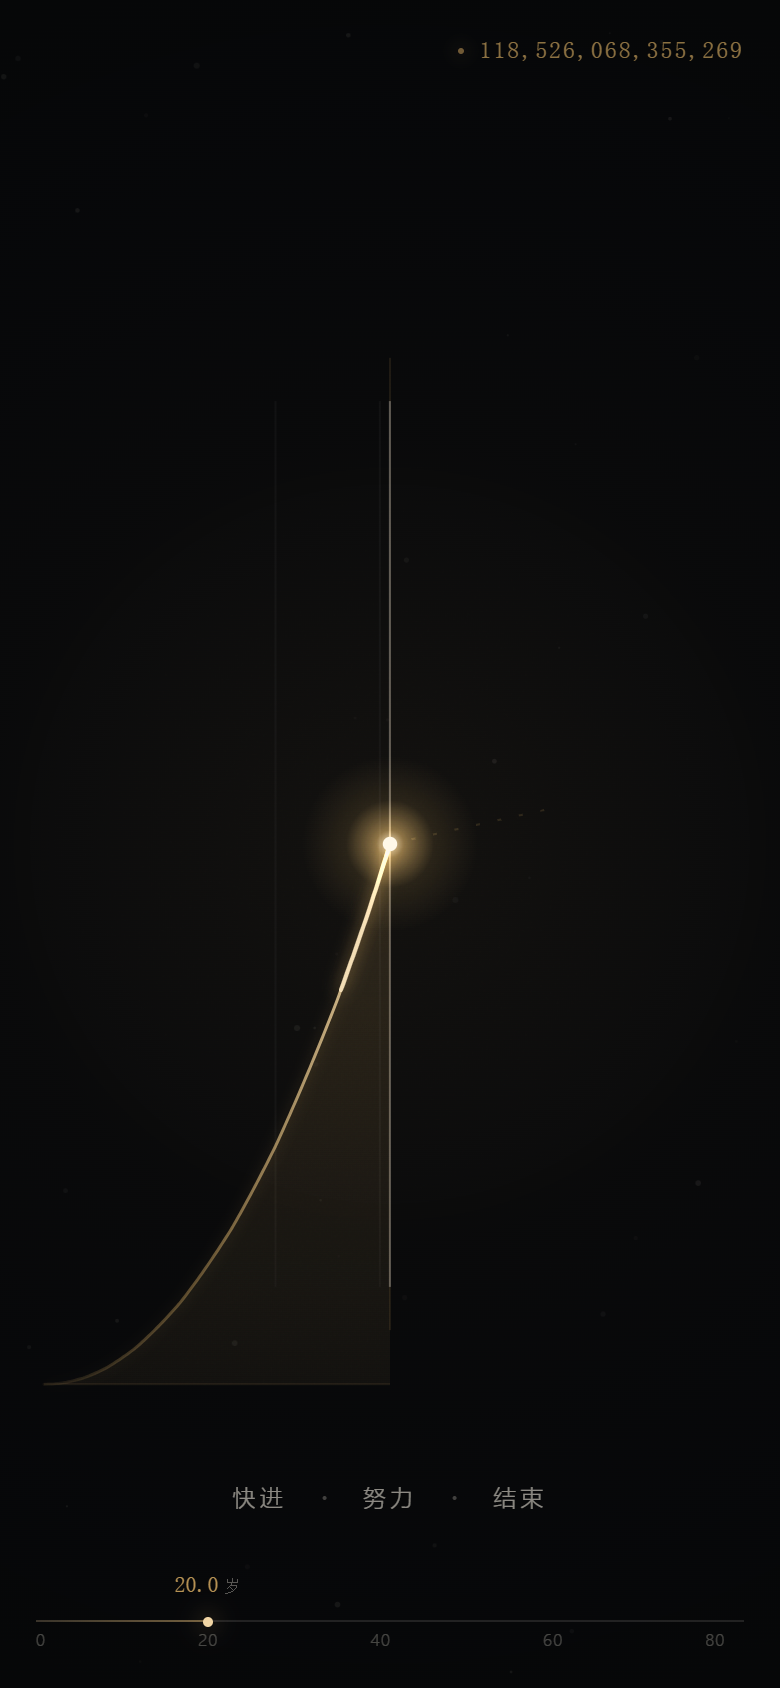
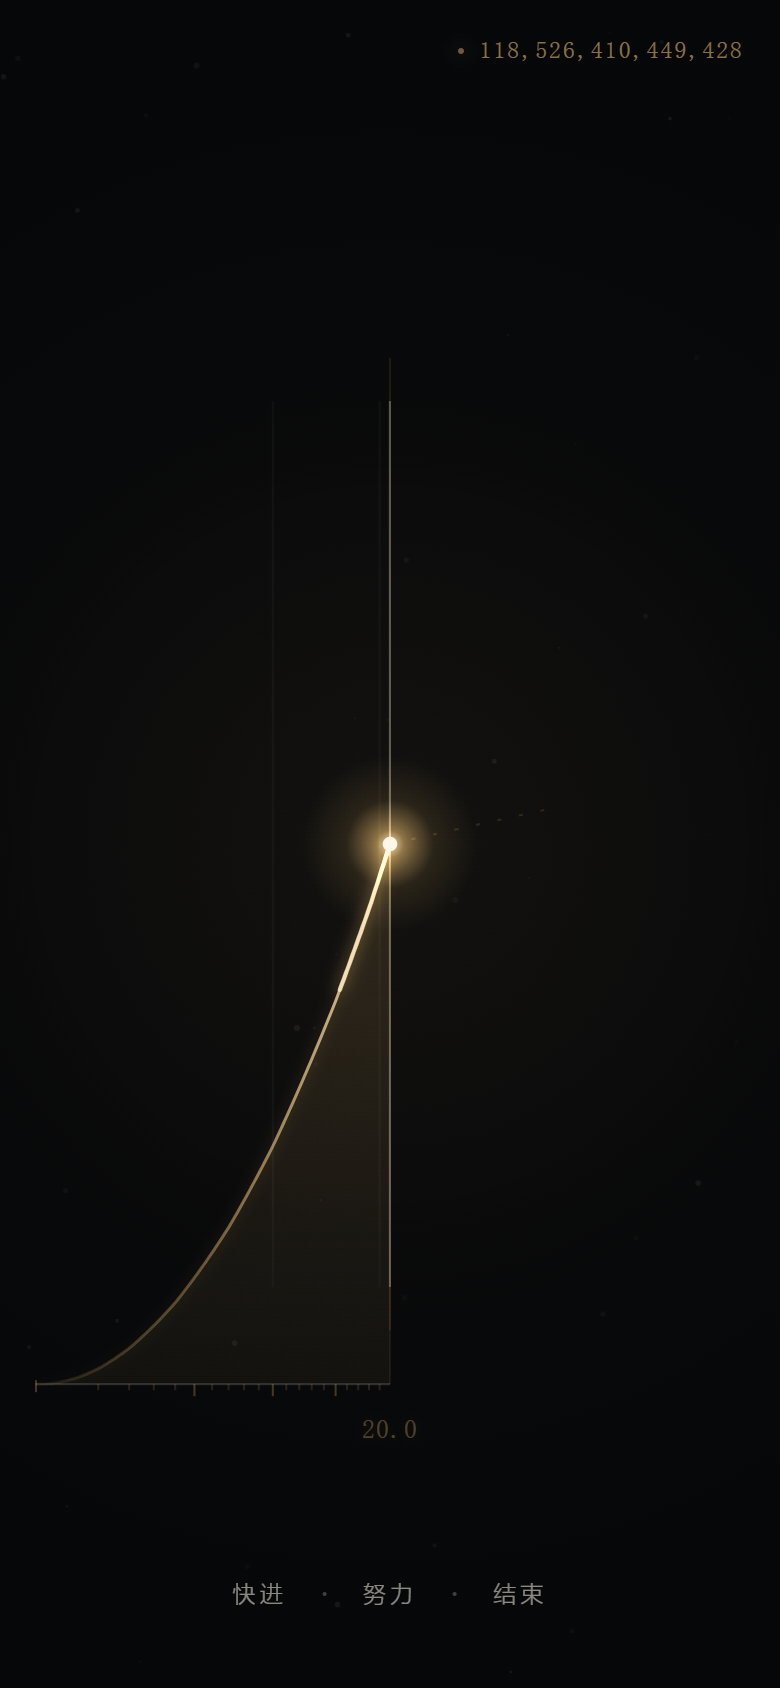
feat(v2.3.0): 年龄轴移到面积底边并随年龄压缩

diff --git a/assets/js/render.js b/assets/js/render.js
@@ -1,11 +1,12 @@
 import {
   SLOPE_CAP,
   heightAt,
-} from './life.js?v=2.2.0';
+} from './life.js?v=2.3.0';
 
 const AMBER = '227, 181, 102';
 const PAPER = '238, 232, 220';
 const RED = '200, 85, 61';
+const YEAR_SECONDS = 365.25 * 86400;
 
 function rgba(rgb, alpha) {
   return `rgba(${rgb}, ${alpha})`;
@@ -64,7 +65,7 @@ export class LifeRenderer {
   geometry() {
     const centerX = this.w * 0.5;
     const centerY = this.h * 0.5;
-    const left = this.w < 620 ? 22 : Math.max(this.w * 0.07, 46);
+    const left = this.w < 620 ? 18 : 24;
     const halfW = centerX - left;
     const halfH = Math.min(this.h * 0.32, 280);
     return { left, centerX, centerY, halfW, halfH };
@@ -133,6 +134,67 @@ export class LifeRenderer {
     ctx.restore();
   }
 
+  drawAgeAxis(g, age, baseY) {
+    const { ctx } = this;
+    const years = age / YEAR_SECONDS;
+    ctx.save();
+    ctx.lineCap = 'butt';
+
+    // 光点到轴的连接线：轴在“现在”的正下方
+    if (baseY > g.centerY + 2) {
+      ctx.strokeStyle = rgba(AMBER, 0.08);
+      ctx.beginPath();
+      ctx.moveTo(g.centerX, g.centerY);
+      ctx.lineTo(g.centerX, baseY);
+      ctx.stroke();
+    }
+
+    ctx.strokeStyle = rgba(PAPER, 0.17);
+    ctx.lineWidth = 1;
+    ctx.beginPath();
+    ctx.moveTo(g.left, baseY);
+    ctx.lineTo(g.centerX, baseY);
+    ctx.stroke();
+
+    // 起点固定在页面最左边；0 不写出来
+    ctx.strokeStyle = rgba(AMBER, 0.28);
+    ctx.beginPath();
+    ctx.moveTo(g.left, baseY - 2);
+    ctx.lineTo(g.left, baseY + 4);
+    ctx.stroke();
+
+    // 每一年一道刻痕。活得越久，刻痕越多、越挤。
+    const lastYear = Math.floor(years);
+    for (let year = 1; year <= lastYear; year += 1) {
+      const x = this.ageToX(year * YEAR_SECONDS, age, g.left, g.centerX);
+      if (x < g.left + 2 || x > g.centerX - 2) continue;
+      const tall = year % 5 === 0;
+      ctx.strokeStyle = rgba(AMBER, tall ? 0.28 : 0.14);
+      ctx.beginPath();
+      ctx.moveTo(x, baseY);
+      ctx.lineTo(x, baseY + (tall ? 6 : 3));
+      ctx.stroke();
+    }
+    ctx.restore();
+  }
+
+  drawAgeNumber(g, age, baseY, now) {
+    const { ctx } = this;
+    const years = Math.max(0, age / YEAR_SECONDS);
+    const death = this.deathAt ? Math.min(1, (now - this.deathAt) / 1700) : 0;
+    const alpha = (0.5 + 0.18 * Math.sin(now * 0.0032)) * (1 - death);
+    const bob = this.reduced ? 0 : Math.sin(now * 0.0032 + 1.2) * 1.2;
+    ctx.save();
+    ctx.font = '13px "Songti SC", "STSong", "Noto Serif CJK SC", "SimSun", serif';
+    ctx.textAlign = 'center';
+    ctx.textBaseline = 'top';
+    ctx.fillStyle = rgba(AMBER, Math.max(0, alpha));
+    ctx.shadowColor = rgba(AMBER, 0.25 * (1 - death));
+    ctx.shadowBlur = 10;
+    ctx.fillText(years.toFixed(1), g.centerX, baseY + 16 + bob);
+    ctx.restore();
+  }
+
   drawCurve(life, events, now) {
     const { ctx } = this;
     const g = this.geometry();
@@ -144,19 +206,10 @@ export class LifeRenderer {
     this.drawTicks(g, age);
 
     if (age <= 0 || H <= 0) {
-      // 一条平线也是轨迹
-      if (age > 0) {
-        ctx.save();
-        ctx.strokeStyle = rgba(PAPER, 0.1);
-        ctx.lineWidth = 1;
-        ctx.beginPath();
-        ctx.moveTo(g.left, g.centerY);
-        ctx.lineTo(g.centerX, g.centerY);
-        ctx.stroke();
-        ctx.restore();
-      }
+      this.drawAgeAxis(g, age, baseY);
       this.drawSparks(now);
       this.drawDot(g, life, now, 1);
+      this.drawAgeNumber(g, age, baseY, now);
       return;
     }
 
@@ -191,13 +244,7 @@ export class LifeRenderer {
     ctx.fillStyle = rgba(AMBER, 0.028);
     ctx.fill();
 
-    // 面积的底边：很淡，但让它真的“被围起来”
-    ctx.strokeStyle = rgba(AMBER, 0.09);
-    ctx.lineWidth = 1;
-    ctx.beginPath();
-    ctx.moveTo(points[0].x, baseY);
-    ctx.lineTo(points[points.length - 1].x, baseY);
-    ctx.stroke();
+    this.drawAgeAxis(g, age, baseY);
 
     const stroke = ctx.createLinearGradient(g.left, 0, g.centerX, 0);
     stroke.addColorStop(0, rgba(AMBER, 0.06));
@@ -244,6 +291,7 @@ export class LifeRenderer {
 
     this.drawSparks(now);
     this.drawDot(g, life, now, 1);
+    this.drawAgeNumber(g, age, baseY, now);
   }
 
   drawDot(g, life, now, alpha = 1) {

diff --git a/assets/css/style.css b/assets/css/style.css
@@ -124,84 +124,6 @@ body.is-dead .area { animation: none; opacity: 0; }
   100% { opacity: 0.7; }
 }
 
-/* ---------- age axis ---------- */
-
-.age-axis {
-  position: fixed;
-  left: 7vw;
-  right: 7vw;
-  bottom: 24px;
-  z-index: 6;
-  height: 34px;
-  pointer-events: none;
-  opacity: 0;
-  transition: opacity 0.9s var(--ease);
-}
-
-body:not(.is-booting) .age-axis { opacity: 1; }
-body.is-dead .age-axis,
-body.has-panel .age-axis { opacity: 0; }
-
-.age-line {
-  position: absolute;
-  left: 0;
-  right: 0;
-  top: 16px;
-  height: 1px;
-  background: rgba(238, 232, 220, 0.12);
-}
-
-#ageFill {
-  position: absolute;
-  left: 0;
-  top: 0;
-  bottom: 0;
-  width: 0;
-  background: linear-gradient(90deg, rgba(227, 181, 102, 0.12), rgba(227, 181, 102, 0.42));
-}
-
-#ageMarker {
-  position: absolute;
-  left: 0;
-  top: 50%;
-  width: 5px;
-  height: 5px;
-  border-radius: 50%;
-  background: var(--amber-soft);
-  transform: translate(-50%, -50%);
-  box-shadow: 0 0 12px rgba(227, 181, 102, 0.7);
-}
-
-.age-ticks span {
-  position: absolute;
-  top: 21px;
-  transform: translateX(-50%);
-  font-size: 8px;
-  letter-spacing: 0.08em;
-  color: rgba(238, 232, 220, 0.28);
-  font-variant-numeric: tabular-nums;
-}
-
-.age-ticks span:first-child { transform: translateX(0); }
-.age-ticks span:last-child { transform: translateX(-100%); }
-
-.age-readout {
-  position: absolute;
-  top: -8px;
-  left: 0;
-  display: flex;
-  align-items: baseline;
-  gap: 3px;
-  transform: translateX(-50%);
-  color: rgba(227, 181, 102, 0.8);
-  font-family: var(--serif);
-  font-size: 11px;
-  font-variant-numeric: tabular-nums;
-  white-space: nowrap;
-}
-
-.age-readout small { font-size: 8px; letter-spacing: 0.1em; color: rgba(238, 232, 220, 0.35); }
-
 /* ---------- account orb ---------- */
 
 .account-orb {
@@ -259,7 +181,7 @@ body.has-panel .age-axis { opacity: 0; }
 .actions {
   position: fixed;
   left: 50%;
-  bottom: max(76px, calc(66px + env(safe-area-inset-bottom)));
+  bottom: max(28px, calc(18px + env(safe-area-inset-bottom)));
   z-index: 7;
   transform: translateX(-50%);
   display: flex;
@@ -523,16 +445,14 @@ body.is-booting .actions { opacity: 0; pointer-events: none; }
 
 @media (pointer: coarse) {
   .effort-pad { display: grid; grid-template-columns: repeat(4, 1fr); gap: 8px; }
-  .age-axis { left: 18px; right: 18px; bottom: 16px; }
-  .actions { bottom: max(72px, calc(62px + env(safe-area-inset-bottom))); }
+  .actions { bottom: max(24px, calc(16px + env(safe-area-inset-bottom))); }
   .actions button { font-size: 13px; letter-spacing: 0.2em; }
 }
 
 @media (max-width: 640px) {
   .area { top: 18px; right: 18px; font-size: 12px; }
   .account-orb { top: 16px; left: 16px; width: 25px; height: 25px; }
-  .age-axis { left: 18px; right: 18px; bottom: 16px; }
-  .actions { bottom: max(72px, calc(62px + env(safe-area-inset-bottom))); gap: 16px; }
+  .actions { gap: 16px; }
   .actions button { font-size: 11.5px; letter-spacing: 0.18em; }
   .fast-number { margin-bottom: 30px; }
   .fast-number span { font-size: 58px; }
@@ -549,8 +469,6 @@ body.is-booting .actions { opacity: 0; pointer-events: none; }
   .effort-keys { min-height: 56px; }
   .effort-key { height: 46px; }
   .effort-pad { display: none; }
-  .age-axis { bottom: 10px; }
-  .actions { bottom: max(58px, calc(50px + env(safe-area-inset-bottom))); }
 }
 
 @media (prefers-reduced-motion: reduce) {

diff --git a/assets/js/main.js b/assets/js/main.js
@@ -11,17 +11,14 @@ import {
   makeSequence,
   projectFastForward,
   settle,
-} from './life.js?v=2.2.0';
-import { LifeRenderer } from './render.js?v=2.2.0';
-import { Sound } from './audio.js?v=2.2.0';
-import { ApiClient, ApiError, makeNonce, randomSeed } from './api.js?v=2.2.0';
-import { CONFIG } from './config.js?v=2.2.0';
+} from './life.js?v=2.3.0';
+import { LifeRenderer } from './render.js?v=2.3.0';
+import { Sound } from './audio.js?v=2.3.0';
+import { ApiClient, ApiError, makeNonce, randomSeed } from './api.js?v=2.3.0';
+import { CONFIG } from './config.js?v=2.3.0';
 
 const $ = (id) => document.getElementById(id);
 const isGithubPages = window.location.hostname.endsWith('.github.io');
-const MAX_AGE_YEARS = LIFETIME_DAYS / 365.25;
-const AGE_SECONDS_PER_YEAR = 365.25 * 86400;
-const AGE_TICKS = [0, 20, 40, 60, 80];
 
 const state = {
   mode: 'local',
@@ -49,7 +46,6 @@ const sound = new Sound();
 let renderer;
 let areaFlashTimer = 0;
 let lastAreaText = '';
-let lastAgeText = '';
 
 const el = {};
 
@@ -58,7 +54,7 @@ function cacheElements() {
     'stage', 'area', 'areaValue', 'accountBtn', 'accountAvatar', 'accountMenu', 'accountName',
     'logoutBtn', 'actions', 'fastPanel', 'fastDay', 'fastRange', 'fastWarning', 'fastCancel', 'fastConfirm',
     'effortPanel', 'effortKeys', 'effortProgress', 'effortPad', 'endPanel', 'endCancel',
-    'endConfirm', 'veil', 'live', 'ageAxis', 'ageFill', 'ageMarker', 'ageTicks', 'ageReadout', 'ageYears',
+    'endConfirm', 'veil', 'live',
   ];
   for (const id of ids) el[id] = $(id);
   el.actionButtons = [...el.actions.querySelectorAll('button[data-action]')];
@@ -110,38 +106,6 @@ function updateArea(life) {
   el.areaValue.textContent = text;
 }
 
-function initAgeAxis() {
-  el.ageAxis.setAttribute('aria-valuemax', MAX_AGE_YEARS.toFixed(1));
-  el.ageTicks.replaceChildren();
-  for (const year of AGE_TICKS) {
-    const tick = document.createElement('span');
-    tick.textContent = String(year);
-    tick.style.left = `${(year / MAX_AGE_YEARS) * 100}%`;
-    el.ageTicks.append(tick);
-  }
-}
-
-function updateAgeAxis(life) {
-  if (!life || !el.ageAxis) return;
-  const years = Math.max(0, life.age / AGE_SECONDS_PER_YEAR);
-  const pct = Math.max(0, Math.min(100, (years / MAX_AGE_YEARS) * 100));
-  el.ageFill.style.width = `${pct}%`;
-  el.ageMarker.style.left = `${pct}%`;
-  el.ageReadout.style.left = `${pct}%`;
-  el.ageReadout.style.transform = pct < 6
-    ? 'translateX(0)'
-    : pct > 94
-      ? 'translateX(-100%)'
-      : 'translateX(-50%)';
-  const text = years.toFixed(1);
-  if (text !== lastAgeText) {
-    lastAgeText = text;
-    el.ageYears.textContent = text;
-    el.ageAxis.setAttribute('aria-valuenow', text);
-    el.ageAxis.setAttribute('aria-valuetext', `${text} 岁`);
-  }
-}
-
 function showActions(show) {
   el.actions.hidden = !show;
 }
@@ -180,10 +144,7 @@ function frame(now) {
     return;
   }
   renderer.draw(life, state.events, now);
-  if (!state.fastOpen) {
-    updateArea(life);
-    updateAgeAxis(life);
-  }
+  if (!state.fastOpen) updateArea(life);
 }
 
 /* ---------------- base state ---------------- */
@@ -933,8 +894,6 @@ async function boot() {
     state.justDied = false;
   }
   renderer = new LifeRenderer(el.stage);
-  initAgeAxis();
-  updateAgeAxis(createLife({ bornAt: Date.now() }));
   bind();
   requestAnimationFrame(frame);
 

diff --git a/index.html b/index.html
@@ -19,19 +19,13 @@
   <meta name="twitter:card" content="summary_large_image">
   <meta name="twitter:image" content="https://joffzxf.github.io/nilu/assets/img/og.png">
   <link rel="icon" href="./assets/img/favicon.svg" type="image/svg+xml">
-  <link rel="stylesheet" href="./assets/css/style.css?v=2.2.0">
+  <link rel="stylesheet" href="./assets/css/style.css?v=2.3.0">
 </head>
 <body class="is-booting">
   <canvas id="stage" aria-hidden="true"></canvas>
   <div class="grain" aria-hidden="true"></div>
 
   <div id="area" class="area" aria-label="累积面积"><span id="areaValue">0</span></div>
-
-  <div id="ageAxis" class="age-axis" role="progressbar" aria-label="年龄" aria-valuemin="0" aria-valuemax="82.1" aria-valuenow="0">
-    <div class="age-line"><span id="ageFill"></span><span id="ageMarker"></span></div>
-    <div id="ageTicks" class="age-ticks" aria-hidden="true"></div>
-    <div id="ageReadout" class="age-readout" aria-hidden="true"><span id="ageYears">0.0</span><small>岁</small></div>
-  </div>
 
   <button id="accountBtn" class="account-orb" type="button" aria-label="账号" hidden>
     <svg class="orb-github" viewBox="0 0 16 16" aria-hidden="true"><path fill="currentColor" d="M8 0C3.58 0 0 3.58 0 8c0 3.54 2.29 6.53 5.47 7.59.4.07.55-.17.55-.38 0-.19-.01-.82-.01-1.49-2.01.37-2.53-.49-2.69-.94-.09-.23-.48-.94-.82-1.13-.28-.15-.68-.52-.01-.53.63-.01 1.08.58 1.23.82.72 1.21 1.87.87 2.33.66.07-.52.28-.87.51-1.07-1.78-.2-3.64-.89-3.64-3.95 0-.87.31-1.59.82-2.15-.08-.2-.36-1.02.08-2.12 0 0 .67-.21 2.2.82.64-.18 1.32-.27 2-.27.68 0 1.36.09 2 .27 1.53-1.04 2.2-.82 2.2-.82.44 1.1.16 1.92.08 2.12.51.56.82 1.27.82 2.15 0 3.07-1.87 3.75-3.65 3.95.29.25.54.73.54 1.48 0 1.07-.01 1.93-.01 2.2 0 .21.15.46.55.38A8.01 8.01 0 0 0 16 8c0-4.42-3.58-8-8-8Z"/></svg>
@@ -83,6 +77,6 @@
   <div id="veil" class="veil" aria-hidden="true"></div>
   <p id="live" class="sr-only" aria-live="polite"></p>
   <noscript><p class="noscript">逆旅需要 JavaScript 才能让光点走起来。</p></noscript>
-  <script type="module" src="./assets/js/main.js?v=2.2.0"></script>
+  <script type="module" src="./assets/js/main.js?v=2.3.0"></script>
 </body>
 </html>

diff --git a/docs/design-notes.md b/docs/design-notes.md
@@ -144,7 +144,9 @@ v2 把「结束」拿掉了：
 
 因为一打开就已经开始了。
 
-也没有「剩余时间」「第几天」「斜率」。只有右上角一个数字，底部三个动作。
+也没有「剩余时间」「第几天」「斜率」。只有右上角一个面积数字，底部一条年龄轴和三个动作。
+
+年龄轴不标 0，也不标满；它只沿着面积的底边伸到光点脚下，刻度越来越密，光点下面跳着当前的年龄。
 
 - 不知道第几天，是设计的一部分。
 - 不知道斜率多少，是设计的一部分。
